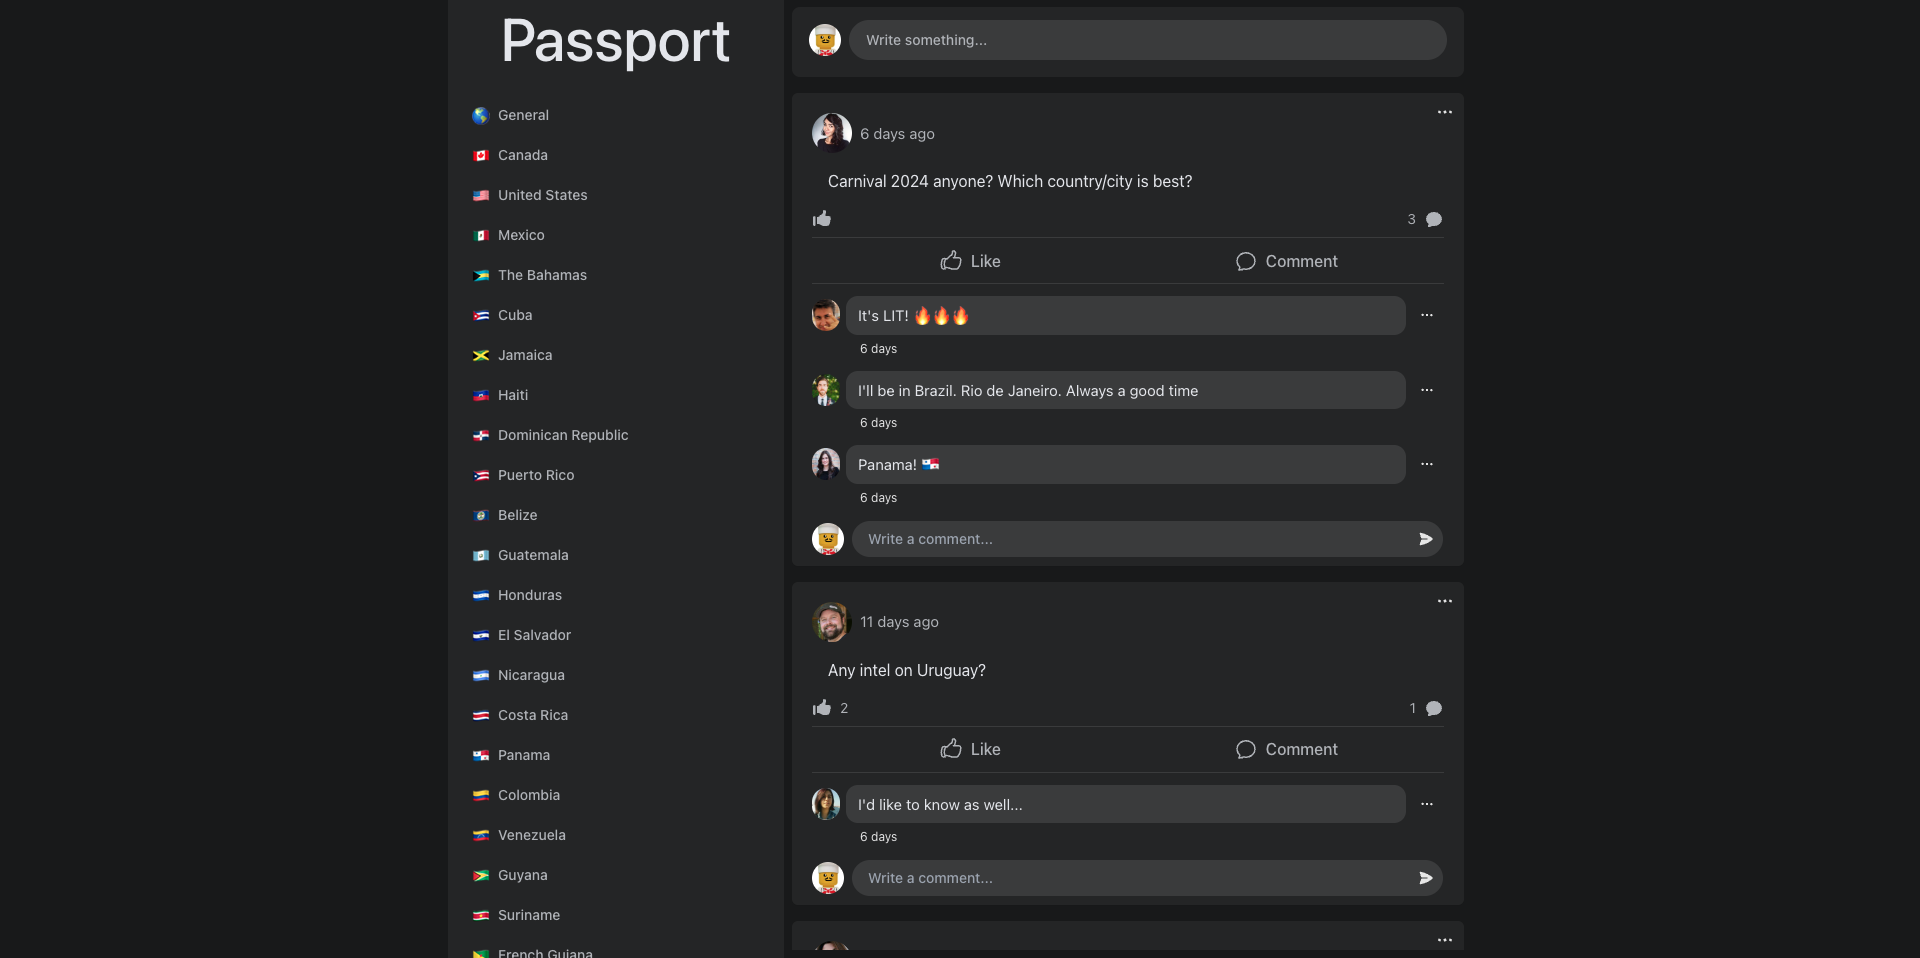
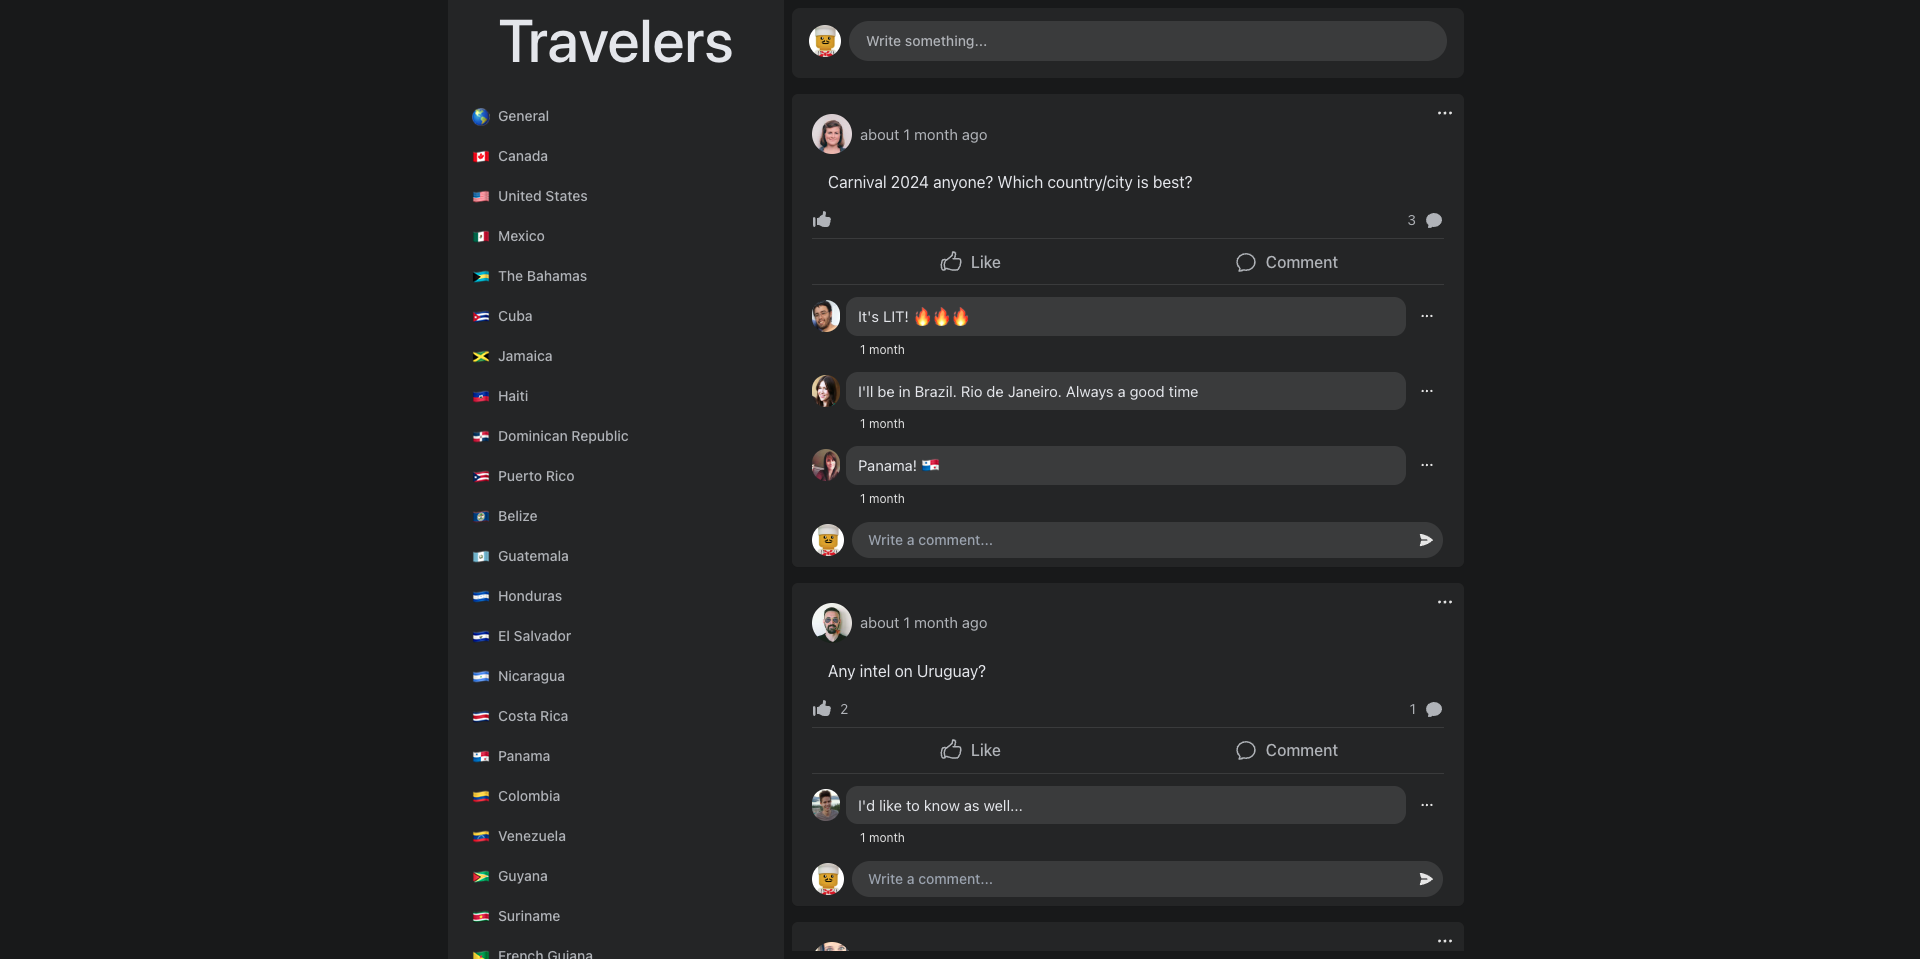
refactor: update project title

diff --git a/frontend/src/components/Sidebar.jsx b/frontend/src/components/Sidebar.jsx
@@ -194,14 +194,14 @@ const Sidebar = () => {
       <nav className="mx-[-16px] sm:mx-0 sm:h-screen sm:w-[250px] lg:w-[336px] bg-gray-med space-y-8">
         <div className="flex flex-col h-full">
           {/* TITLE / LOGO */}
-          <div className="h-20 flex items-center justify-between px-8 text-5xl lg:text-6xl">
+          <div className="h-20 flex items-center justify-center px-8 text-5xl lg:text-6xl">
             <a href="" className="text-gray-light-txt">
               {/* <img
                 src=""
                 width={140}
                 className="mx-auto"
               /> */}
-              Passport
+              Travelers
             </a>
 
             {/* OPEN & CLOSE NAV BTN */}

diff --git a/frontend/index.html b/frontend/index.html
@@ -4,7 +4,7 @@
     <meta charset="UTF-8" />
     <!-- <link rel="icon" type="image/svg+xml" href="/vite.svg" /> -->
     <meta name="viewport" content="width=device-width, initial-scale=1.0" />
-    <title>Passport | Travel Group</title>
+    <title>Travelers | Travel Group</title>
   </head>
   <body>
     <div id="root"></div>

diff --git a/README.md b/README.md
@@ -1,10 +1,10 @@
-# Passport Travel Group
+# Travelers
 
 A Facebook Groups clone - CRUD MERN app hosted on Railway - users can view, add, edit, & delete posts, replies/comments, & likes
 
 ![screenshot](screenshot.png)
 
-**Link to project:** https://passport-travel.netlify.app
+**Link to project:** https://travelers-group.netlify.app
 
 ## 🚀 How It's Made:
 
